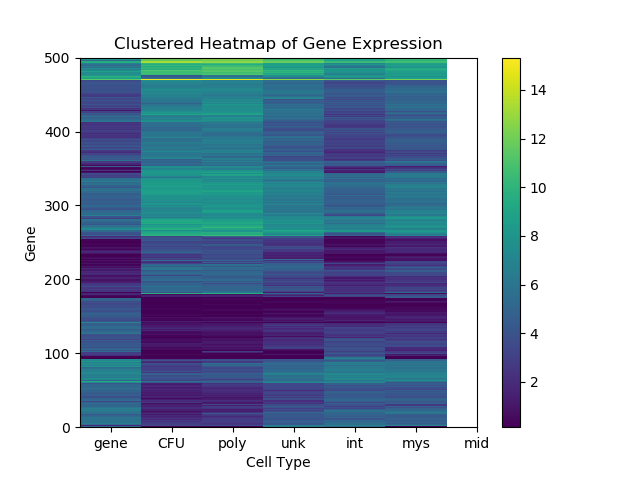
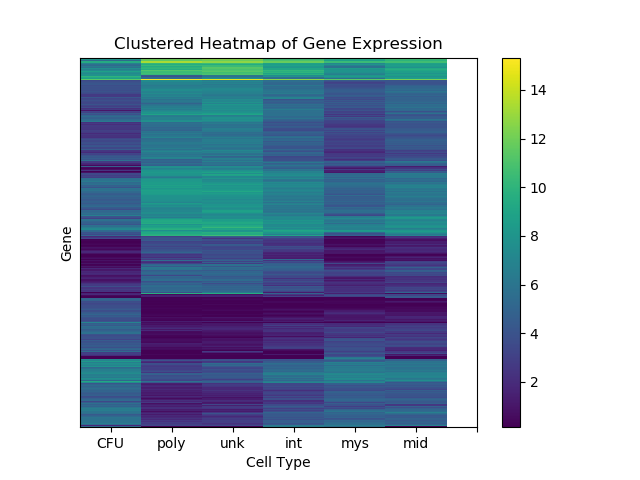
Week 10 part 1

diff --git a/week10/01_clustering.py b/week10/01_clustering.py
@@ -1,0 +1,57 @@
+#!/usr/bin/env python
+
+"""
+Usage: ./01_clustering.py hema_data.txt
+"""
+
+import sys
+import numpy as np
+import pandas as pd
+import matplotlib.pyplot as plt
+from scipy.cluster.hierarchy import linkage, leaves_list, dendrogram
+from sklearn.cluster import KMeans
+from scipy.cluster.vq import vq
+
+df = pd.read_csv(sys.argv[1], delimiter="\t")
+data = df.as_matrix()[:,1:].astype(float)
+
+linked = linkage(data, method='average')
+l_led = leaves_list(linked)
+ordered = data[l_led,:]
+dendro_linked = linkage(data.T, method='complete')
+
+# Plots heatmap
+plt.figure()
+plt.title('Clustered Heatmap of Gene Expression')
+plt.pcolor(ordered)
+plt.colorbar()
+plt.xlabel("Cell Type")
+plt.ylabel("Gene")
+plt.yticks([])
+plt.xticks(np.arange(0.5, df.shape[1], 1), df.columns[1:])
+plt.savefig("gene_expression_heatmap.png")
+plt.close()
+
+# Plots dendrogram
+lables = df.columns[1:]
+plt.figure()
+dendro = dendrogram(dendro_linked,labels=lables)
+plt.title('Dendrogram')
+plt.savefig("dendrogram.png")
+plt.close()
+
+# Plots k-means clustering of genes plotted against CFU and poly
+kmeans = KMeans(n_clusters=6)
+kmeans = kmeans.fit(data)
+labels = kmeans.predict(data)
+centroids = kmeans.cluster_centers_
+idx,_ = vq(data, centroids)
+
+plt.figure()
+plt.plot(data[idx==0, 0], data[idx==0,1],'ob', data[idx==1,0],data[idx==1,1], 'or', data[idx==2, 0], data[idx==2,1],'og', data[idx==3, 0], data[idx==3,1],'oy', data[idx==4, 0], data[idx==4,1],'oc', data[idx==5, 0], data[idx==5,1], 'om')
+plt.plot(centroids[:,0], centroids[:, 1], 'sk', markersize=5)
+plt.title("K-means Clustering with 6 Centroids")
+plt.xlabel('CFU')
+plt.ylabel('poly')
+plt.savefig("k-means_clustering.png")
+plt.
